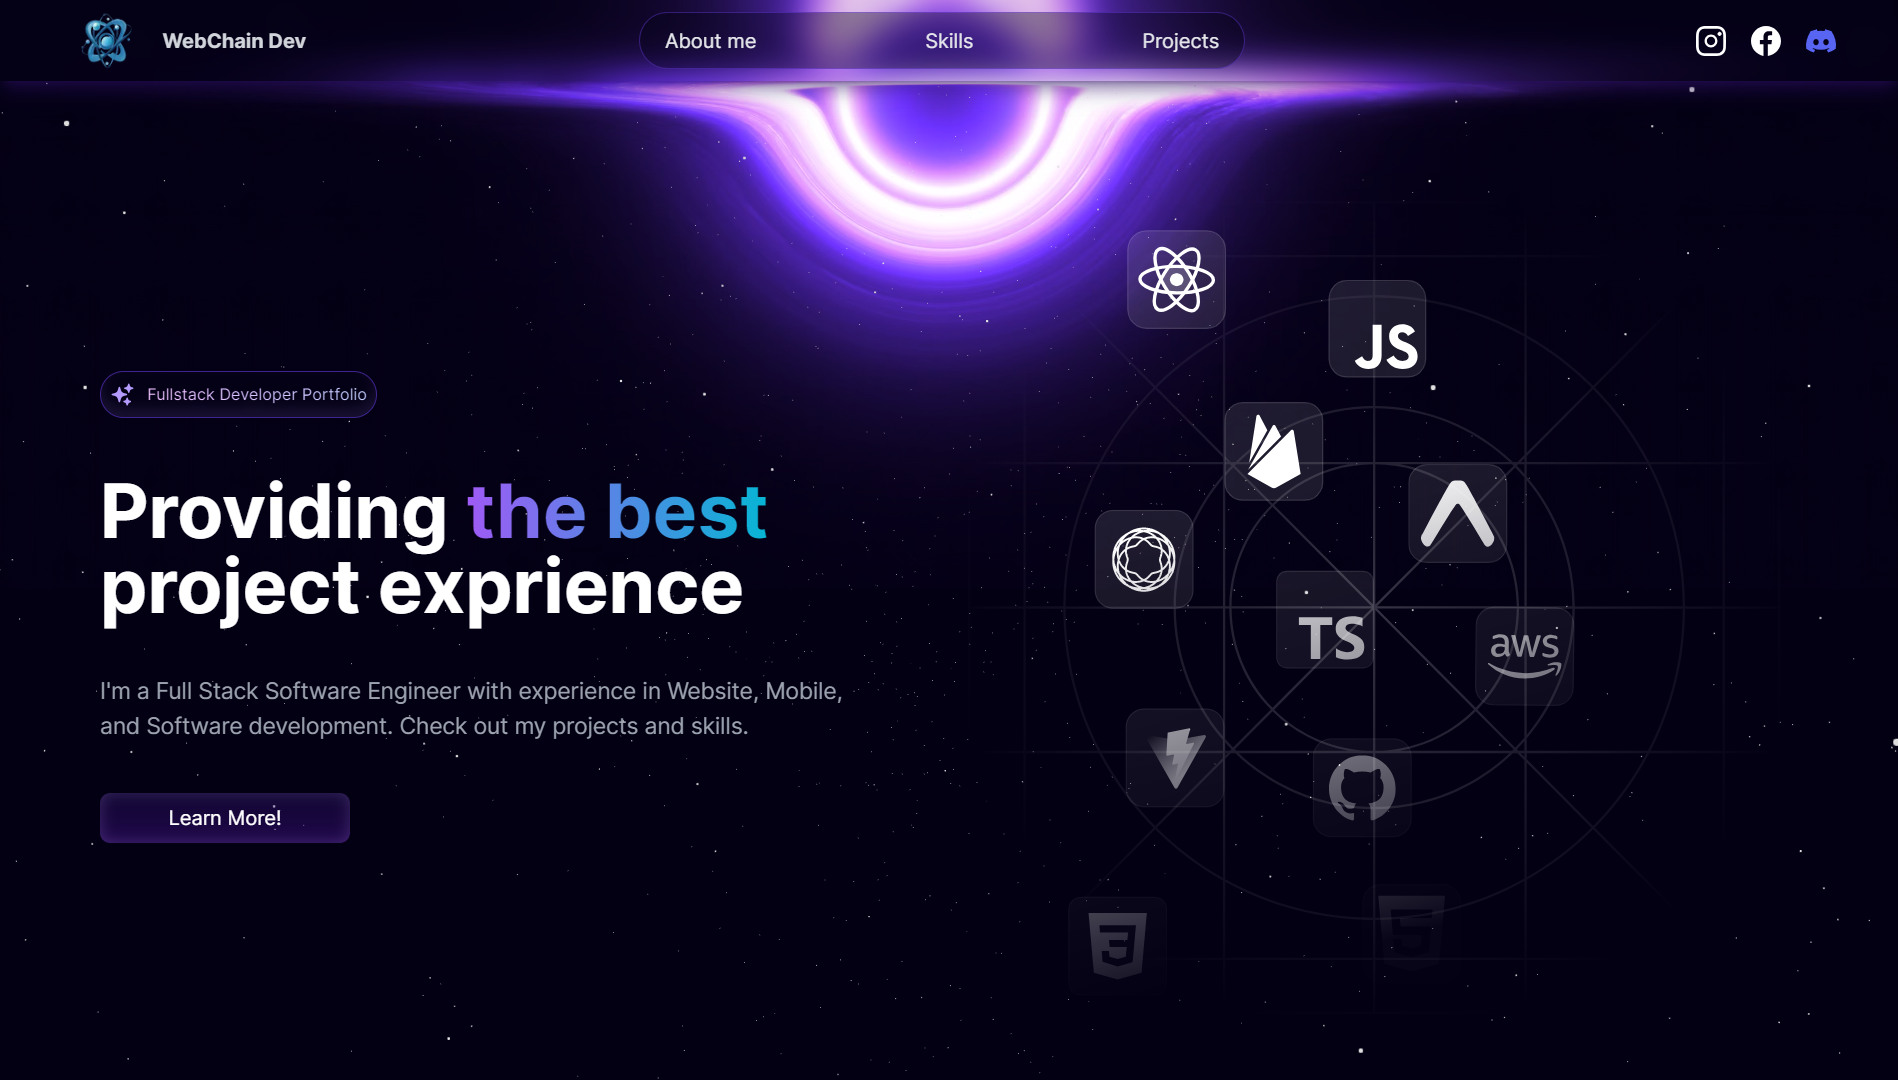
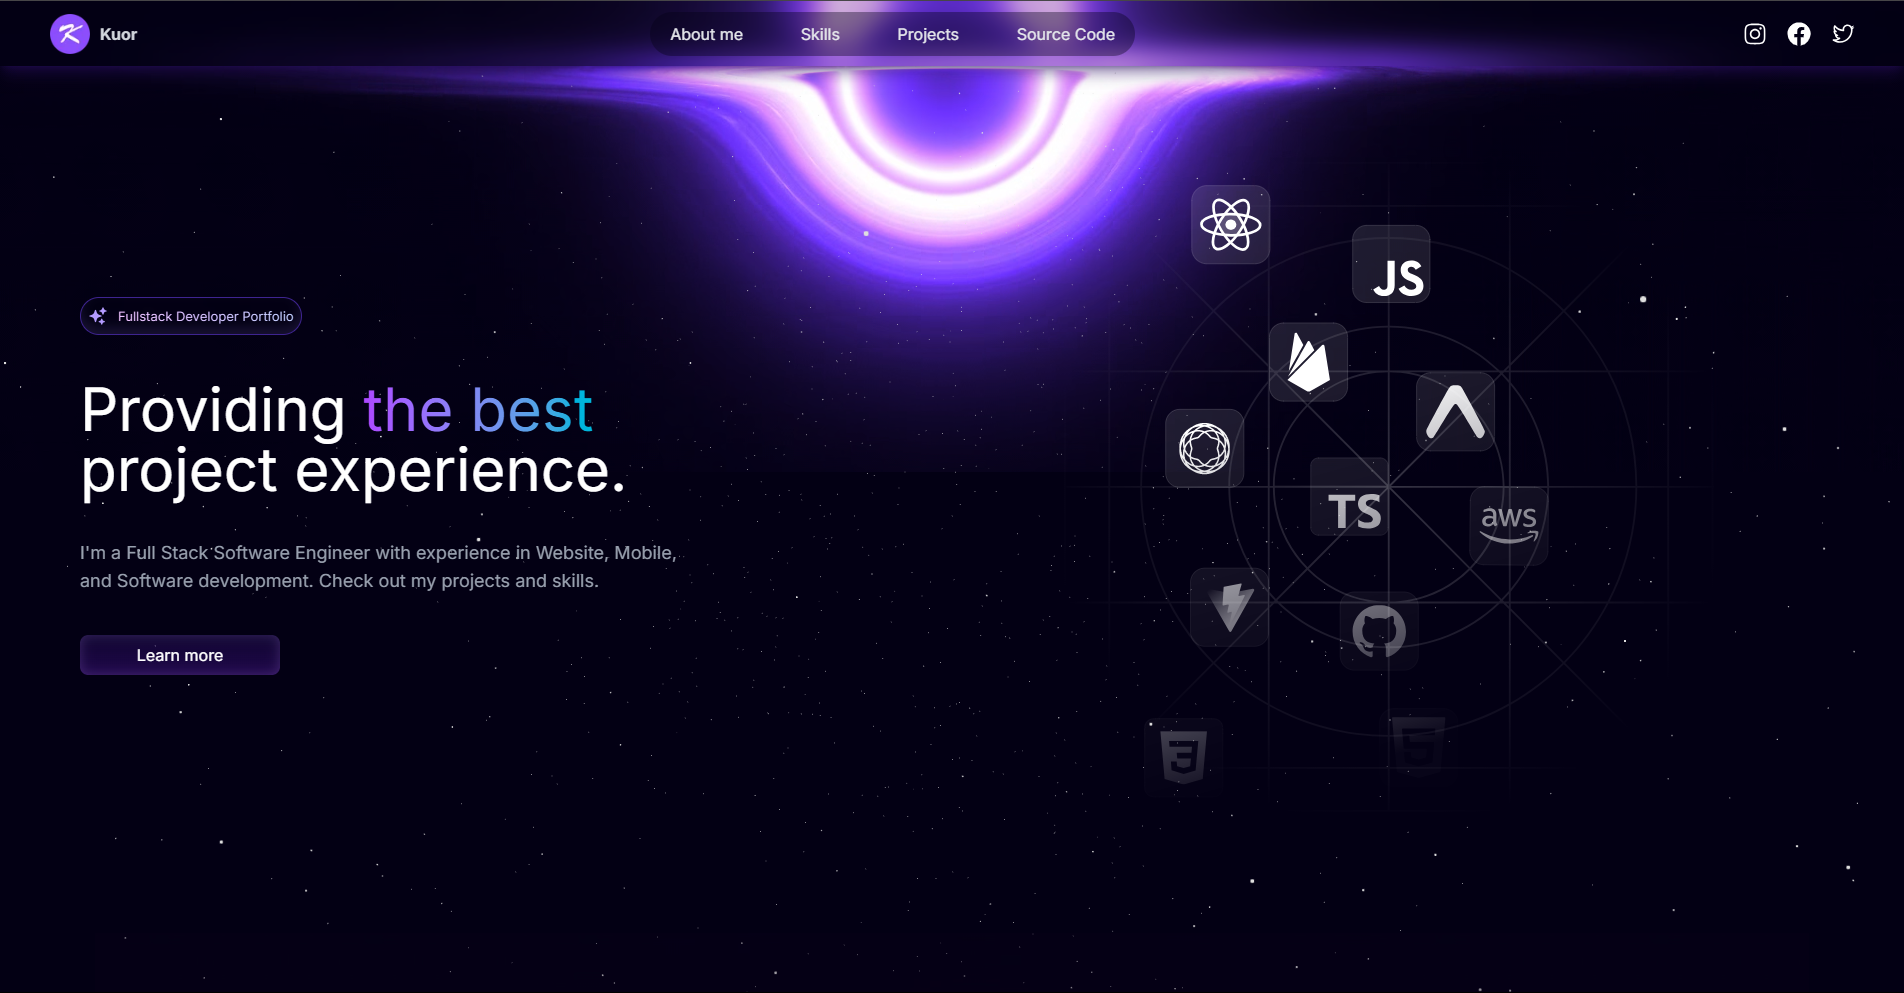
add my project

diff --git a/src/constants/index.ts b/src/constants/index.ts
@@ -259,25 +259,25 @@ export const OTHER_SKILL = [
 
 export const PROJECTS = [
   {
-    title: "Modern Next.js 14 Portfolio",
+    title: "Blizzer chatbot",
     description:
       'Embark on a journey through my professional evolution with the "Modern Next.js Portfolio" - a dynamic showcase of my skills, experiences, and passion for web development. Crafted with precision and powered by Next.js, this portfolio is more than just a static display; it\'s an immersive experience that reflects the cutting edge of modern web technologies.',
     image: "/projects/project-1.png",
-    link: "https://example.com",
+    link: "https://blizzer.tech/",
   },
   {
-    title: "Interactive Cards Portfolio",
+    title: "Event management system",
     description:
       'Step into the extraordinary world of my professional journey through the "Interactive Cards Portfolio" - an innovative and visually captivating platform that redefines the traditional portfolio experience. Ditching the conventional static layout, this portfolio leverages interactive cards to showcase my skills, projects, and personality in an engaging and dynamic manner.',
     image: "/projects/project-2.png",
-    link: "https://example.com",
+    link: "https://eventify-zeta-blue.vercel.app/",
   },
   {
-    title: "Space Themed Website",
+    title: "Portfolio website with Space Theme",
     description:
       'Embark on an interstellar journey with my "Space Themed Website", a mesmerizing space-themed website that invites you to explore the cosmic wonders beyond our world. Immerse yourself in an awe-inspiring digital experience that blends cutting-edge design with the mysteries of the universe.',
     image: "/projects/project-3.png",
-    link: "https://example.com",
+    link: "https://portfolio-loem-theankous-projects.vercel.app/",
   },
 ] as const;
 
@@ -298,7 +298,7 @@ export const FOOTER_DATA = [
       {
         name: "Discord",
         icon: RxDiscordLogo,
-        link: "https://discord.com",
+        link: "https://discord.com/channels/@me",
       },
     ],
   },
@@ -330,11 +330,11 @@ export const FOOTER_DATA = [
         icon: null,
         link: "https://youtube.com",
       },
-      {
-        name: "Learning about me",
-        icon: null,
-        link: "https://example.com",
-      },
+      // {
+      //   name: "Learning about me",
+      //   icon: null,
+      //   link: "https://example.com",
+      // },
       {
         name: "Contact Me",
         icon: null,

diff --git a/src/components/sub/hero-content.tsx b/src/components/sub/hero-content.tsx
@@ -49,12 +49,12 @@ export const HeroContent = () => {
           Mobile, and Software development. Check out my projects and skills.
         </motion.p>
 
-        <motion.a
+        {/* <motion.a
           variants={slideInFromLeft(1)}
           className="py-2 button-primary text-center text-white cursor-pointer rounded-lg max-w-[200px]"
         >
           Learn more
-        </motion.a>
+        </motion.a> */}
       </div>
 
       <motion.div
